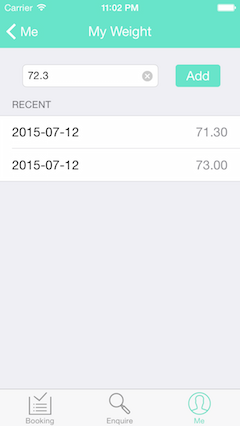
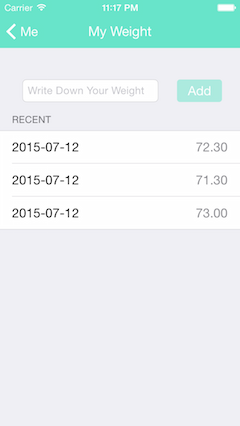
modify my weight module

diff --git a/Class/MyWeight/Controller/CTMyWeightViewController.m b/Class/MyWeight/Controller/CTMyWeightViewController.m
@@ -112,7 +112,7 @@ static NSString *ID = @"myWeightCell";
 }
 
 -(CGFloat)tableView:(UITableView *)tableView heightForHeaderInSection:(NSInteger)section{
-    return 30;
+    return 50;
 }
 
 
